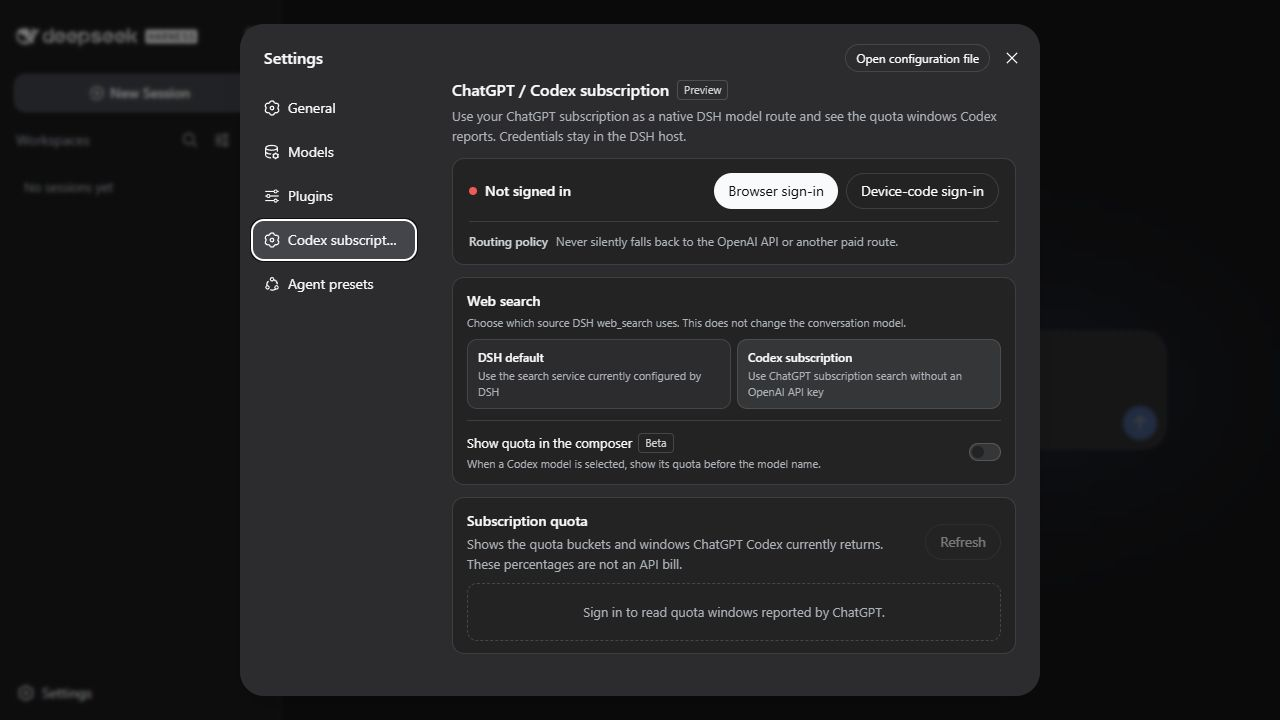
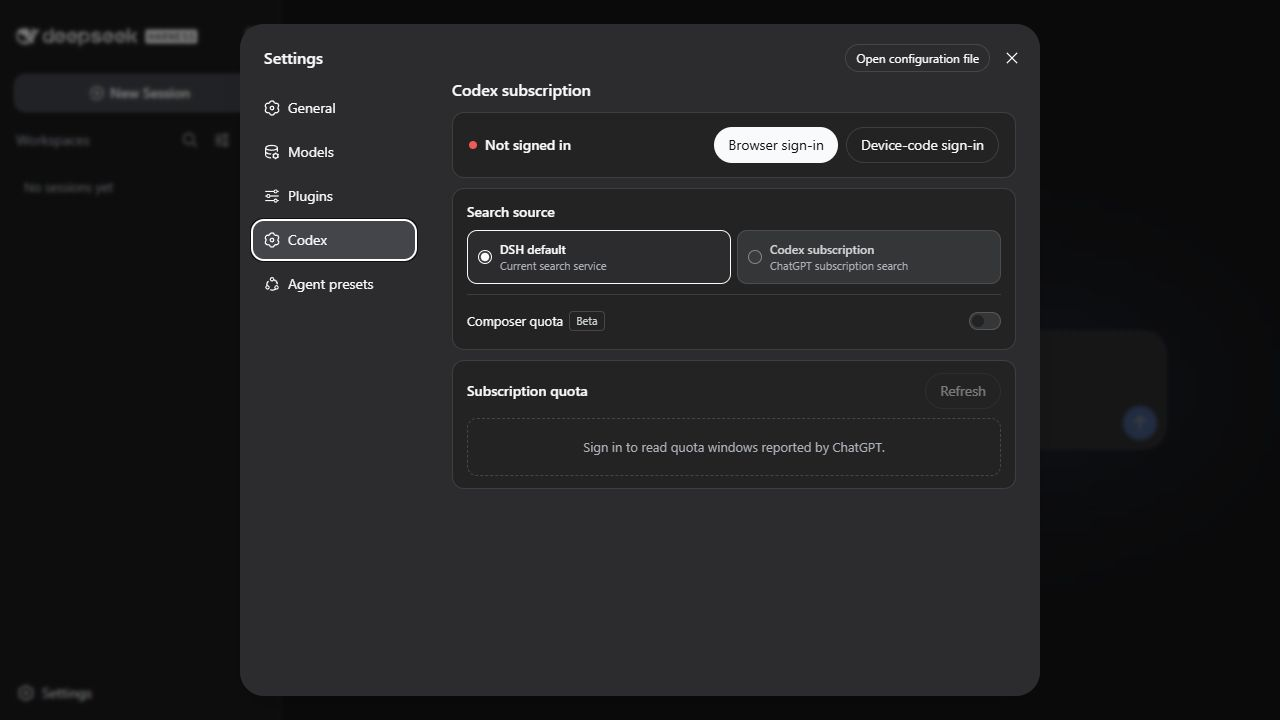
fix: stabilize portable updates

diff --git a/lib/index.js b/lib/index.js
@@ -539,7 +539,7 @@ function createCodexSearchProvider(options) {
 						accept: "application/json",
 						"content-type": "application/json",
 						originator: "pi",
-						"user-agent": "dsh-codex-subscription/0.2.7"
+						"user-agent": "dsh-codex-subscription/0.2.8"
 					},
 					body: JSON.stringify({
 						id,
@@ -719,7 +719,7 @@ function createCodexUsageReader(options) {
 				"chatgpt-account-id": accountId,
 				accept: "application/json",
 				"cache-control": "no-store",
-				"user-agent": "dsh-codex-subscription/0.2.7"
+				"user-agent": "dsh-codex-subscription/0.2.8"
 			},
 			signal: requestSignal(signal, timeoutMs)
 		});

diff --git a/src/codex-search.js b/src/codex-search.js
@@ -91,7 +91,7 @@ export function createCodexSearchProvider(options) {
             accept: 'application/json',
             'content-type': 'application/json',
             originator: 'pi',
-            'user-agent': 'dsh-codex-subscription/0.2.7',
+            'user-agent': 'dsh-codex-subscription/0.2.8',
           },
           body: JSON.stringify({
             id,

diff --git a/src/usage.js b/src/usage.js
@@ -162,7 +162,7 @@ export function createCodexUsageReader(options) {
         'chatgpt-account-id': accountId,
         accept: 'application/json',
         'cache-control': 'no-store',
-        'user-agent': 'dsh-codex-subscription/0.2.7',
+        'user-agent': 'dsh-codex-subscription/0.2.8',
       },
       signal: requestSignal(signal, timeoutMs),
     })

diff --git a/src/client.jsx b/src/client.jsx
@@ -46,7 +46,7 @@ const zh = {
 }
 
 const en = {
-  nav: 'Codex subscription',
+  nav: 'Codex',
   title: 'Codex subscription',
   connected: 'Signed in', disconnected: 'Not signed in', accountLoading: 'Reading account status…',
   browserLogin: 'Browser sign-in', deviceLogin: 'Device-code sign-in', logout: 'Sign out',

diff --git a/lib/client.js b/lib/client.js
@@ -97,7 +97,7 @@ window.__ModuleLoader__.load({
 			quickQuotaStatus: "Codex 剩余额度 {value}%"
 		};
 		const en = {
-			nav: "Codex subscription",
+			nav: "Codex",
 			title: "Codex subscription",
 			connected: "Signed in",
 			disconnected: "Not signed in",

diff --git a/AGENTS.md b/AGENTS.md
@@ -6,7 +6,7 @@ Use this guide when a user asks an Agent to install, update, verify, or remove
 ## Safety
 
 - Confirm the target DSH profile; use `web` only when it is the user's target.
-- Use the pinned `v0.2.7` release assets for a first install, never a moving branch.
+- Use the pinned `v0.2.8` release assets for a first install, never a moving branch.
 - Never print OAuth credentials, account IDs, authorization callbacks, or the
   credential store.
 - Do not start, stop, or restart DSH without explicit permission.
@@ -51,7 +51,7 @@ the user which installation is the target.
 Download the fixed release asset to a visible file, then invoke the requested action:
 
 ```powershell
-curl.exe -fL https://github.com/WSL043/dsh-codex-subscription/releases/download/v0.2.7/dsh-codex.ps1 -o "$env:TEMP\dsh-codex.ps1"
+curl.exe -fL https://github.com/WSL043/dsh-codex-subscription/releases/download/v0.2.8/dsh-codex.ps1 -o "$env:TEMP\dsh-codex.ps1"
 powershell.exe -NoProfile -ExecutionPolicy Bypass -File "$env:TEMP\dsh-codex.ps1" Install
 ```
 
@@ -59,7 +59,7 @@ If `curl.exe` is unavailable, download the same pinned asset without executing
 remote text in memory:
 
 ```powershell
-Invoke-WebRequest -UseBasicParsing -Uri 'https://github.com/WSL043/dsh-codex-subscription/releases/download/v0.2.7/dsh-codex.ps1' -OutFile "$env:TEMP\dsh-codex.ps1"
+Invoke-WebRequest -UseBasicParsing -Uri 'https://github.com/WSL043/dsh-codex-subscription/releases/download/v0.2.8/dsh-codex.ps1' -OutFile "$env:TEMP\dsh-codex.ps1"
 powershell.exe -NoProfile -ExecutionPolicy Bypass -File "$env:TEMP\dsh-codex.ps1" Install
 ```
 
@@ -93,7 +93,7 @@ When `dsh`, Node.js, and pnpm are already available, install the fixed package
 asset directly:
 
 ```sh
-dsh plugin --profile web add https://github.com/WSL043/dsh-codex-subscription/releases/download/v0.2.7/dsh-codex-subscription.tgz
+dsh plugin --profile web add https://github.com/WSL043/dsh-codex-subscription/releases/download/v0.2.8/dsh-codex-subscription.tgz
 ```
 
 Update by running the same `add` command again. When migrating from v0.2.1 by
@@ -124,7 +124,7 @@ Success requires:
 
 Do not treat `dsh plugin --profile web peers check` as the completion test.
 If the user authorizes a live check, restart DSH manually, open
-**Settings -> Codex subscription**, and verify the page loads. Confirm that Web
+**Settings -> Codex**, and verify the page loads. Confirm that Web
 search offers both **DSH default** and **Codex subscription**, and that the Beta
 composer quota switch starts off. Weekly-only usage is valid; Spark remains a
 separate bucket. Do not run a quota-consuming model turn unless the user

diff --git a/README.en.md b/README.en.md
@@ -72,7 +72,7 @@ once and install again. Restart DSH manually after installation.
 <summary>macOS, Linux, or an existing <code>dsh</code> command</summary>
 
 ```sh
-dsh plugin --profile web add https://github.com/WSL043/dsh-codex-subscription/releases/download/v0.2.7/dsh-codex-subscription.tgz
+dsh plugin --profile web add https://github.com/WSL043/dsh-codex-subscription/releases/download/v0.2.8/dsh-codex-subscription.tgz
 dsh plugin --profile web list dsh-codex-subscription --depth 0
 dsh --profile web --dump-config
 ```
@@ -84,7 +84,7 @@ contain one `codex-subscription` entry.
 
 ## Sign in and use
 
-1. Open **Settings -> Codex subscription** in DSH.
+1. Open **Settings -> Codex** in DSH.
 2. Sign in with a ChatGPT account that has Codex access.
 3. Choose DSH default search or Codex subscription search.
 4. Choose a Codex model from the model selector.
@@ -127,7 +127,7 @@ the two Windows first-install commands above once.
 Update and verify:
 
 ```sh
-dsh plugin --profile web add https://github.com/WSL043/dsh-codex-subscription/releases/download/v0.2.7/dsh-codex-subscription.tgz
+dsh plugin --profile web add https://github.com/WSL043/dsh-codex-subscription/releases/download/v0.2.8/dsh-codex-subscription.tgz
 dsh plugin --profile web list dsh-codex-subscription --depth 0
 dsh --profile web --dump-config
 ```

diff --git a/README.md b/README.md
@@ -65,7 +65,7 @@ powershell.exe -NoProfile -ExecutionPolicy Bypass -File "$env:TEMP\dsh-codex.ps1
 <summary>macOS、Linux，或已有 <code>dsh</code> 命令</summary>
 
 ```sh
-dsh plugin --profile web add https://github.com/WSL043/dsh-codex-subscription/releases/download/v0.2.7/dsh-codex-subscription.tgz
+dsh plugin --profile web add https://github.com/WSL043/dsh-codex-subscription/releases/download/v0.2.8/dsh-codex-subscription.tgz
 dsh plugin --profile web list dsh-codex-subscription --depth 0
 dsh --profile web --dump-config
 ```
@@ -117,7 +117,7 @@ Windows 首次安装命令即可。
 更新并检查：
 
 ```sh
-dsh plugin --profile web add https://github.com/WSL043/dsh-codex-subscription/releases/download/v0.2.7/dsh-codex-subscription.tgz
+dsh plugin --profile web add https://github.com/WSL043/dsh-codex-subscription/releases/download/v0.2.8/dsh-codex-subscription.tgz
 dsh plugin --profile web list dsh-codex-subscription --depth 0
 dsh --profile web --dump-config
 ```
